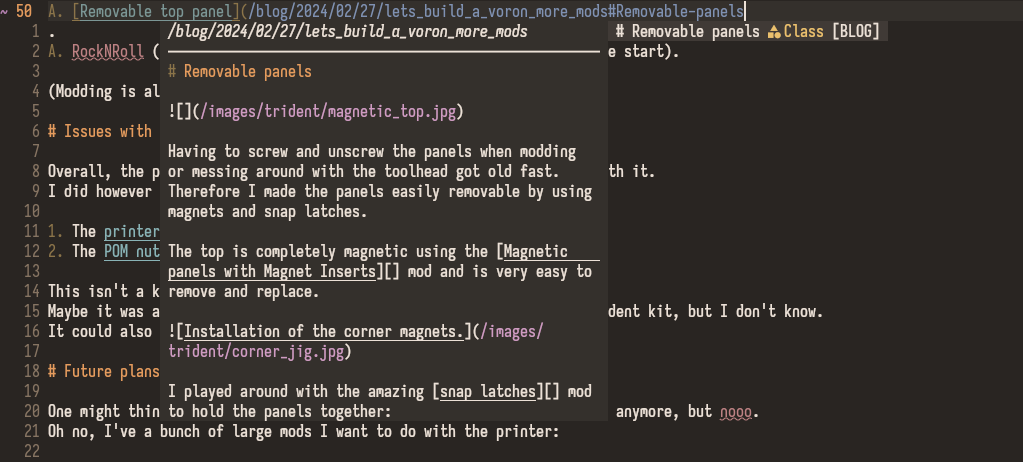
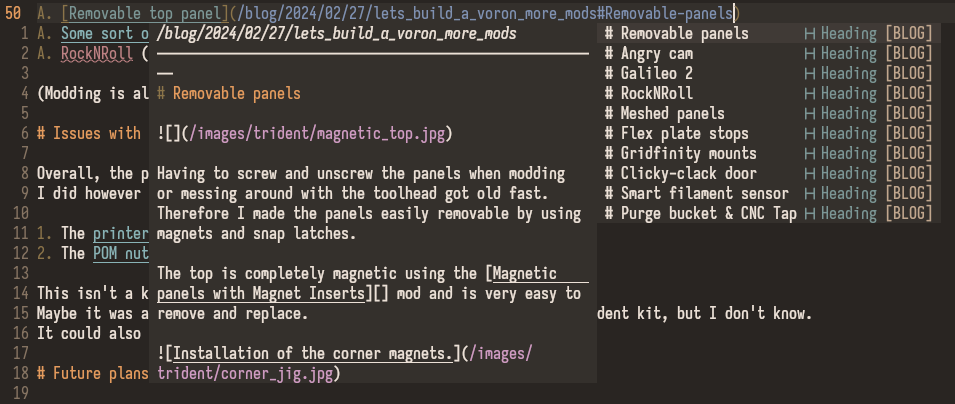
Re-add item kinds for completion items

Changed region(s): [[0.0, 0.0, 1.0, 1.0], [0.6073, 0.7426, 0.8503, 0.802], [0.6073, 0.8614, 0.7592, 0.9208]]

diff --git a/src/server/complete.rs b/src/server/complete.rs
@@ -2,7 +2,7 @@ use super::messages::{
     BrokenLinkInfo, CompletionItem, ConstantInfo, DivClassInfo, HeadingContext, ImgInfo,
     LinkDefInfo, PostInfo, SeriesInfo, StandaloneInfo, TagInfo,
 };
-use super::messages::{ExtraCompletionInfo, HeadingInfo};
+use super::messages::{CompletionItemKind, ExtraCompletionInfo, HeadingInfo};
 use crate::content::SeriesItem;
 use crate::content::StandaloneItem;
 use crate::content::Tag;
@@ -231,7 +231,7 @@ fn append_broken_link_completions(lookup: &MarkupLookup, res: &mut Vec<Completio
             }) => {
                 res.push(
                     CompletionItemBuilder::BrokenLink(BrokenLinkInfo::from_link(
-                        &tag,
+                        tag,
                         e.range.start.row,
                     ))
                     .into(),
@@ -381,11 +381,12 @@ impl CompletionItemBuilder {
     }
 }
 
-impl Into<CompletionItem> for CompletionItemBuilder {
-    fn into(self) -> CompletionItem {
-        match self {
+impl From<CompletionItemBuilder> for CompletionItem {
+    fn from(value: CompletionItemBuilder) -> CompletionItem {
+        match value {
             CompletionItemBuilder::Img(info) => CompletionItem {
                 label: info.url.clone(),
+                kind: CompletionItemKind::File,
                 info: Some(ExtraCompletionInfo::Img(info)),
                 ..Default::default()
             },
@@ -393,22 +394,22 @@ impl Into<CompletionItem> for CompletionItemBuilder {
                 filter_text: Some([info.url.as_str(), info.title.as_str()].join("|")),
                 label: info.title.clone(),
                 insert_text: Some(info.url.clone()),
+                kind: CompletionItemKind::File,
                 info: Some(ExtraCompletionInfo::Post(info)),
-                ..Default::default()
             },
             CompletionItemBuilder::Standalone(info) => CompletionItem {
                 filter_text: Some([info.url.as_str(), info.title.as_str()].join("|")),
                 label: info.title.clone(),
                 insert_text: Some(info.url.clone()),
+                kind: CompletionItemKind::File,
                 info: Some(ExtraCompletionInfo::Standalone(info)),
-                ..Default::default()
             },
             CompletionItemBuilder::Constant(info) => CompletionItem {
                 filter_text: Some([info.url.as_str(), info.title.as_str()].join("|")),
                 label: info.title.clone(),
                 insert_text: Some(info.url.clone()),
+                kind: CompletionItemKind::Constant,
                 info: Some(ExtraCompletionInfo::Constant(info)),
-                ..Default::default()
             },
             CompletionItemBuilder::Series(t, info) => CompletionItem {
                 filter_text: Some([info.url.as_str(), info.title.as_str()].join("|")),
@@ -417,8 +418,8 @@ impl Into<CompletionItem> for CompletionItemBuilder {
                     CompletionType::Url => Some(info.url.clone()),
                     CompletionType::Id => Some(info.id.clone()),
                 },
+                kind: CompletionItemKind::Module,
                 info: Some(ExtraCompletionInfo::Series(info)),
-                ..Default::default()
             },
             CompletionItemBuilder::Tag(t, info) => CompletionItem {
                 filter_text: Some([info.url.as_str(), info.name.as_str()].join("|")),
@@ -427,26 +428,27 @@ impl Into<CompletionItem> for CompletionItemBuilder {
                     CompletionType::Url => Some(info.url.clone()),
                     CompletionType::Id => Some(info.name.clone()),
                 },
+                kind: CompletionItemKind::Folder,
                 info: Some(ExtraCompletionInfo::Tag(info)),
-                ..Default::default()
             },
             CompletionItemBuilder::Heading(info) => CompletionItem {
                 label: format!("{} {}", "#".repeat(info.level.into()), info.content),
                 filter_text: Some(info.content.clone()),
                 insert_text: Some(info.id.clone()),
+                kind: CompletionItemKind::Class,
                 info: Some(ExtraCompletionInfo::Heading(info)),
-                ..Default::default()
             },
             CompletionItemBuilder::LinkDefInfo(info) => CompletionItem {
                 filter_text: Some([info.url.as_str(), info.label.as_str()].join("|")),
                 label: info.label.clone(),
                 insert_text: Some(info.label.clone()),
                 info: Some(ExtraCompletionInfo::LinkDef(info)),
-                ..Default::default()
+                kind: CompletionItemKind::Reference,
             },
             CompletionItemBuilder::BrokenLink(info) => CompletionItem {
                 label: info.tag.clone(),
                 info: Some(ExtraCompletionInfo::BrokenLink(info)),
+                kind: CompletionItemKind::Field,
                 ..Default::default()
             },
             CompletionItemBuilder::DivClass(class) => CompletionItem {
@@ -454,6 +456,7 @@ impl Into<CompletionItem> for CompletionItemBuilder {
                 info: Some(ExtraCompletionInfo::DivClass(DivClassInfo {
                     name: class.as_str(),
                 })),
+                kind: CompletionItemKind::Keyword,
                 ..Default::default()
             },
         }
@@ -500,6 +503,7 @@ mod tests {
                 label: "Feb post 1".into(),
                 insert_text: Some("/blog/2022/02/01/feb_post".into()),
                 filter_text: Some("/blog/2022/02/01/feb_post|Feb post 1".into()),
+                kind: CompletionItemKind::File,
                 info: Some(ExtraCompletionInfo::Post(PostInfo {
                     title: "Feb post 1".into(),
                     path: test_site
@@ -557,6 +561,7 @@ mod tests {
                 label: "404".into(),
                 insert_text: Some("/404".into()),
                 filter_text: Some("/404|404".into()),
+                kind: CompletionItemKind::File,
                 info: Some(ExtraCompletionInfo::Standalone(StandaloneInfo {
                     title: "404".into(),
                     url: "/404".into(),
@@ -571,6 +576,7 @@ mod tests {
                 label: "Projects".into(),
                 insert_text: Some("/projects".into()),
                 filter_text: Some("/projects|Projects".into()),
+                kind: CompletionItemKind::Constant,
                 info: Some(ExtraCompletionInfo::Constant(ConstantInfo {
                     title: "Projects".into(),
                     url: "/projects".into(),
@@ -607,6 +613,7 @@ mod tests {
                 label: "# heading with text".into(),
                 insert_text: Some("heading-with-text".into()),
                 filter_text: Some("heading with text".into()),
+                kind: CompletionItemKind::Class,
                 info: Some(ExtraCompletionInfo::Heading(HeadingInfo {
                     id: "heading-with-text".into(),
                     content: "heading with text".into(),
@@ -663,6 +670,7 @@ mod tests {
                 label: "## Regular heading".into(),
                 insert_text: Some("Regular-heading".into()),
                 filter_text: Some("Regular heading".into()),
+                kind: CompletionItemKind::Class,
                 info: Some(ExtraCompletionInfo::Heading(HeadingInfo {
                     id: "Regular-heading".into(),
                     content: "Regular heading".into(),
@@ -715,6 +723,7 @@ mod tests {
                 label: "tag1".into(),
                 insert_text: Some("tag1".to_string()),
                 filter_text: Some("/404|tag1".into()),
+                kind: CompletionItemKind::Reference,
                 info: Some(ExtraCompletionInfo::LinkDef(LinkDefInfo {
                     label: "tag1".into(),
                     url: "/404".into(),
@@ -754,6 +763,7 @@ mod tests {
                 label: "tag1".into(),
                 insert_text: Some("tag1".into()),
                 filter_text: Some("/404|tag1".into()),
+                kind: CompletionItemKind::Reference,
                 info: Some(ExtraCompletionInfo::LinkDef(LinkDefInfo {
                     label: "tag1".into(),
                     url: "/404".into(),
@@ -782,6 +792,7 @@ mod tests {
                 label: "broken_tag".into(),
                 insert_text: None,
                 filter_text: None,
+                kind: CompletionItemKind::Field,
                 info: Some(ExtraCompletionInfo::BrokenLink(BrokenLinkInfo {
                     tag: "broken_tag".into(),
                     row: 32

diff --git a/src/server/messages.rs b/src/server/messages.rs
@@ -7,6 +7,7 @@ use crate::content::{PostItem, PostRef};
 use crate::markup::markup_lookup::{Heading, LinkDef};
 use crate::Site;
 use serde::{Deserialize, Serialize};
+use serde_repr::Serialize_repr;
 use std::collections::HashMap;
 
 #[derive(Debug, Serialize)]
@@ -269,6 +270,43 @@ pub enum ExtraCompletionInfo {
     DivClass(DivClassInfo),
 }
 
+#[allow(dead_code)]
+#[derive(Debug, Serialize_repr, Clone, Copy, PartialEq, Eq)]
+#[repr(u8)]
+pub enum CompletionItemKind {
+    Text = 1,
+    Method = 2,
+    Function = 3,
+    Constructor = 4,
+    Field = 5,
+    Variable = 6,
+    Class = 7,
+    Interface = 8,
+    Module = 9,
+    Property = 10,
+    Unit = 11,
+    Value = 12,
+    Enum = 13,
+    Keyword = 14,
+    Snippet = 15,
+    Color = 16,
+    File = 17,
+    Reference = 18,
+    Folder = 19,
+    EnumMember = 20,
+    Constant = 21,
+    Struct = 22,
+    Event = 23,
+    Operator = 24,
+    TypeParameter = 25,
+}
+
+impl Default for CompletionItemKind {
+    fn default() -> Self {
+        Self::Text
+    }
+}
+
 #[derive(Debug, Serialize, PartialEq, Eq, Default)]
 #[serde(rename_all = "camelCase")]
 pub struct CompletionItem {
@@ -278,6 +316,7 @@ pub struct CompletionItem {
     pub insert_text: Option<String>,
     #[serde(skip_serializing_if = "Option::is_none")]
     pub filter_text: Option<String>,
+    pub kind: CompletionItemKind,
 
     // Blog specific metadata
     #[serde(skip_serializing_if = "Option::is_none")]

diff --git a/src/content/posts.rs b/src/content/posts.rs
@@ -64,11 +64,17 @@ pub struct PostRef {
     pub order: PostRefOrder,
 }
 
-#[derive(Debug, Clone, Eq, PartialOrd)]
+#[derive(Debug, Clone, Eq)]
 pub struct PostRefOrder {
     pub id: String,
     pub is_draft: bool,
     pub created: NaiveDateTime,
+}
+
+impl PartialOrd for PostRefOrder {
+    fn partial_cmp(&self, other: &Self) -> Option<std::cmp::Ordering> {
+        Some(self.cmp(other))
+    }
 }
 
 impl Ord for PostRefOrder {
@@ -195,7 +201,7 @@ impl TeraItem for PostItem {
 }
 
 /// A post item with frontmatter data but without markup.
-#[derive(Debug, Eq, PartialOrd)]
+#[derive(Debug, Eq)]
 pub struct PartialPostItem {
     pub title: String,
     pub tags: Vec<Tag>,
@@ -247,6 +253,12 @@ impl PartialPostItem {
 impl PartialEq for PartialPostItem {
     fn eq(&self, other: &Self) -> bool {
         self.path.eq(&other.path)
+    }
+}
+
+impl PartialOrd for PartialPostItem {
+    fn partial_cmp(&self, other: &Self) -> Option<std::cmp::Ordering> {
+        Some(self.cmp(other))
     }
 }
 

diff --git a/src/content/tags.rs b/src/content/tags.rs
@@ -24,11 +24,17 @@ pub fn tags_archives(tags: &HashMap<Tag, Vec<PostRef>>) -> Vec<ArchiveItem> {
         .collect()
 }
 
-#[derive(Debug, Clone, Eq, PartialEq, PartialOrd, Hash)]
+#[derive(Debug, Clone, Eq, PartialEq, Hash)]
 pub struct Tag {
     pub id: String,
     pub name: String,
     pub url: SiteUrl,
+}
+
+impl PartialOrd for Tag {
+    fn partial_cmp(&self, other: &Self) -> Option<std::cmp::Ordering> {
+        Some(self.cmp(other))
+    }
 }
 
 impl Ord for Tag {
